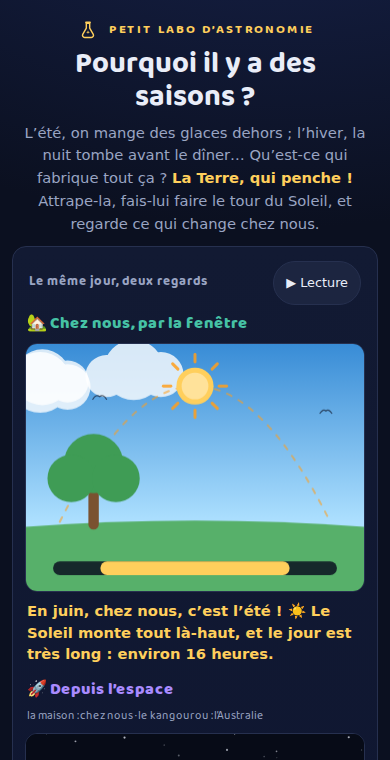
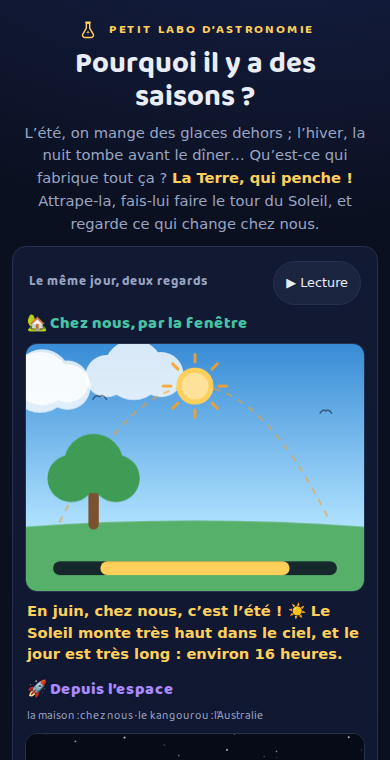
fix: quatre retouches de relecture (textes et premières fleurs)
- La légende « Terre-Soleil : toujours 150 millions de km » disparait
  de la vue de l'espace (elle n'apportait rien) ; la constance de la
  distance reste dans la note aux parents et les tests du modèle.
- En juin, le Soleil « monte très haut dans le ciel » (fini le
  « tout là-haut », partout : phrase du moment, scénario, bravo du jeu).
- En septembre, le jour et la nuit durent « pareil » — l'« encore »
  renvoyait à l'équinoxe de mars, trompeur en suivant l'année.
- À l'équinoxe de printemps, le dessin et le texte s'accordent : les
  premières fleurs s'ouvrent au bout des branches encore nues (rampe
  des fleurs avancée au jour 70, verrouillée par test), le scénario dit
  « les premières fleurs s'ouvrent » au lieu d'un arbre couvert.

Claude-Session: https://claude.ai/code/session_018g4iGsVy9rHqQjnC3SGe4X

Changed region(s): [[0.0615, 0.8171, 0.9231, 0.8776]]

diff --git a/js/model.js b/js/model.js
@@ -159,7 +159,7 @@ export function moisDuJour(jour) {
 /* ------------------------------------------------------------------ */
 
 /* Hauteur du Soleil à midi, en degrés au-dessus de l'horizon (chez nous).
- * Été : tout là-haut (~66°) ; hiver : tout bas (~20°). */
+ * Été : très haut (~66°) ; hiver : tout bas (~20°). */
 export function hauteurSoleilMidi(jour) {
   return HAUTEUR_MIDI_EQUINOXE + INCLINAISON_DEGRES * penchementNord(jour);
 }
@@ -213,7 +213,8 @@ function rampe(jour, debut, fin) {
  * - neige    : le manteau blanc de l'hiver (sol, flocons, bonhomme), 0 à 1.
  * Les rampes s'appuient sur les repères de l'année : les feuilles poussent
  * au printemps, roussissent puis tombent à l'automne, la neige s'installe
- * autour du solstice d'hiver, les fleurs éclosent au cœur du printemps. */
+ * autour du solstice d'hiver, les premières fleurs dès l'équinoxe de
+ * printemps. */
 export function jardinDuJour(jour) {
   var j = jourNormalise(jour);
   var t;
@@ -240,9 +241,11 @@ export function jardinDuJour(jour) {
     else rousseur = (j >= 300 || j < 20) ? 1 : 0;
   }
 
-  /* Les fleurs : elles éclosent en avril-mai, s'effacent au début de l'été. */
+  /* Les fleurs : les premières s'ouvrent dès l'équinoxe de printemps (le
+   * scénario en montre une ou deux), tout est fleuri en mai, et elles
+   * s'effacent au début de l'été. */
   var fleurs;
-  t = rampe(j, 85, 115);
+  t = rampe(j, 70, 115);
   if (t !== null) fleurs = t;
   else {
     t = rampe(j, 140, JOUR_SOLSTICE_ETE);
@@ -340,7 +343,7 @@ export function phraseDuMoment(jour) {
     return debut + 'Le Soleil grimpe plus haut chaque jour, et le jour grandit : déjà ' + heures + ' heures.';
   }
   if (s === 'ete') {
-    return debut + 'Le Soleil monte tout là-haut, et le jour est très long : environ ' + heures + ' heures.';
+    return debut + 'Le Soleil monte très haut dans le ciel, et le jour est très long : environ ' + heures + ' heures.';
   }
   return debut + 'Le Soleil redescend, et le jour raccourcit : plus que ' + heures + ' heures.';
 }
@@ -380,7 +383,7 @@ export var SCENARIOS = [
     label: 'Le printemps revient',
     sub: 'l’équinoxe de printemps',
     intro: 'Au mois de mars, le printemps revient…',
-    fenetre: 'L’arbre du jardin se couvre de fleurs ! Le jour et la nuit durent pareil : douze heures chacun. Et chaque jour qui passe, le Soleil grimpe un peu plus haut.',
+    fenetre: 'Sur l’arbre du jardin, les premières fleurs s’ouvrent ! Le jour et la nuit durent pareil : douze heures chacun. Et chaque jour qui passe, le Soleil grimpe un peu plus haut.',
     espace: 'Les deux moitiés de la Terre sont à égalité : ni chez nous, ni l’Australie ne penche vers le Soleil. Mais la Terre avance… Et bientôt, c’est notre moitié qui penchera vers lui !'
   },
   {
@@ -391,7 +394,7 @@ export var SCENARIOS = [
     label: 'L’été est là',
     sub: 'le solstice d’été',
     intro: 'Fin juin, l’été commence…',
-    fenetre: 'Le Soleil monte tout là-haut dans le ciel, et le soir, il fait encore jour très tard : seize heures de lumière ! L’arbre est vert, on mange dehors.',
+    fenetre: 'Le Soleil monte très haut dans le ciel, et le soir, il fait encore jour très tard : seize heures de lumière ! L’arbre est vert, on mange dehors.',
     espace: 'Regarde la Terre : notre moitié penche à fond vers le Soleil. C’est le jour le plus long de toute l’année — et en Australie, c’est le jour le plus court.'
   },
   {
@@ -402,7 +405,7 @@ export var SCENARIOS = [
     label: 'L’automne arrive',
     sub: 'l’équinoxe d’automne',
     intro: 'Fin septembre, l’automne arrive…',
-    fenetre: 'Les feuilles de l’arbre deviennent rousses et s’envolent. Le jour et la nuit durent encore pareil… Mais maintenant, le Soleil descend un peu plus chaque jour.',
+    fenetre: 'Les feuilles de l’arbre deviennent rousses et s’envolent. Le jour et la nuit durent pareil : douze heures chacun. Mais maintenant, le Soleil descend un peu plus chaque jour.',
     espace: 'Les deux moitiés de la Terre sont de nouveau à égalité : ni chez nous, ni l’Australie ne penche vers le Soleil. Elle continue son voyage… Et cette fois, c’est l’Australie qui va pencher vers lui.'
   },
   {
@@ -448,7 +451,7 @@ export var DEFIS = [
     cible: 'ete',
     hemisphere: 'nord',
     consigne: 'Fabrique l’été chez nous !',
-    bravo: 'Bravo ! C’est l’été : le Soleil monte tout là-haut et les jours n’en finissent plus !'
+    bravo: 'Bravo ! C’est l’été : le Soleil monte très haut et les jours n’en finissent plus !'
   },
   {
     id: 'feuilles',

diff --git a/js/vue-fenetre.js b/js/vue-fenetre.js
@@ -120,16 +120,32 @@ function dessinerArbre(ctx, x, sol, taille, jardin) {
         boules[b][2] * taille * gonfle, 0, TAU);
       ctx.fill();
     }
-    /* Les fleurs roses semées sur la couronne. */
-    if (jardin.fleurs > 0.05) {
-      ctx.fillStyle = '#ff9dbf';
+  }
+
+  /* Les fleurs roses : les toutes premières s'ouvrent au bout des branches
+   * encore nues (l'équinoxe de mars en montre une ou deux, comme le raconte
+   * le scénario), puis elles se sèment sur la couronne dès qu'elle est là. */
+  if (jardin.fleurs > 0.05) {
+    ctx.fillStyle = '#ff9dbf';
+    var f;
+    if (jardin.feuilles > 0.3) {
+      var gonfleFl = 0.35 + 0.65 * jardin.feuilles;
       var pointsFleurs = [[-0.35, -0.2], [0.05, -0.45], [0.38, -0.15], [-0.1, -0.05], [0.2, -0.38], [-0.28, -0.42]];
       var nb = Math.round(jardin.fleurs * pointsFleurs.length);
-      for (var f = 0; f < nb; f++) {
+      for (f = 0; f < nb; f++) {
         ctx.beginPath();
-        ctx.arc(x + pointsFleurs[f][0] * taille * gonfle,
-          sol - tronc + pointsFleurs[f][1] * taille * gonfle - taille * 0.1,
+        ctx.arc(x + pointsFleurs[f][0] * taille * gonfleFl,
+          sol - tronc + pointsFleurs[f][1] * taille * gonfleFl - taille * 0.1,
           taille * 0.055, 0, TAU);
+        ctx.fill();
+      }
+    } else {
+      var nbBranches = Math.max(1, Math.round(jardin.fleurs * branches.length));
+      for (f = 0; f < nbBranches && f < branches.length; f++) {
+        ctx.beginPath();
+        ctx.arc(x + branches[f][0] * taille * 0.55,
+          sol + branches[f][1] * taille * 0.55 - tronc * 0.4,
+          taille * 0.07, 0, TAU);
         ctx.fill();
       }
     }

diff --git a/js/vue-orbite.js b/js/vue-orbite.js
@@ -360,13 +360,6 @@ export function creerVueOrbite(canvas) {
       /* la tache de lumière : ramassée et vive quand le Soleil frappe en
        * face (été), effacée quand il rase (le faisceau diffus suffit) */
       dessinerLumiere(ctx, g.cx, g.cy, g.rSoleil, cibleX, cibleY, p.x, p.y, g.rTerre, aplomb, 'tache', force);
-      /* la distance ne change JAMAIS : la légende fixe le rappelle */
-      var tailleLegende = Math.max(10, Math.round(Math.min(g.w, g.h) * 0.032));
-      ctx.font = '600 ' + tailleLegende + 'px system-ui, sans-serif';
-      ctx.textAlign = 'center';
-      ctx.textBaseline = 'alphabetic';
-      ctx.fillStyle = 'rgba(255, 207, 92, 0.65)';
-      ctx.fillText('Terre–Soleil : toujours 150 millions de km', g.cx, g.h * 0.97);
       /* Les petites étiquettes (pas en mode compact). */
       if (!g.compact) {
         var taille = Math.round(Math.min(g.w, g.h) * 0.035);

diff --git a/index.html b/index.html
@@ -231,8 +231,7 @@
           de son <em>anneau de latitude</em> (le ruban dessiné sur le globe), qui reste à la
           même distance du Soleil toute l’année : ce qui change, c’est l’angle des rayons et la
           durée du jour, jamais la distance. C’est pourquoi maison et kangourou sont posés sur
-          leur anneau, face à nous — et la légende de la vue rappelle les 150 millions de
-          kilomètres, immuables.</li>
+          leur anneau, face à nous.</li>
         <li><strong>Le faisceau de lumière est un projecteur pédagogique.</strong> Il ne
           s’allume qu’autour des solstices, là où le dessin montre juste : la lumière frappe
           notre moitié bien en face l’été (tache ronde et vive), la rase de biais l’hiver

diff --git a/CLAUDE.md b/CLAUDE.md
@@ -83,8 +83,9 @@ Vérités verrouillées par `test/model.test.mjs` (à compléter, jamais supprim
   d'ellipse : le faisceau diffus raconte seul), jamais de saut. Sa cible
   glisse sur le bord éclairé du globe (rotation de versSoleil vers le haut
   de l'axe, 15° l'été → 75° l'hiver, adoucie aux alignements) — jamais
-  derrière. La légende fixe « Terre–Soleil : toujours
-  150 millions de km » ne bouge jamais.
+  derrière. (La légende de distance a été retirée — décision utilisateur :
+  elle n'apportait rien ; la constance de la distance reste racontée dans
+  la note aux parents et verrouillée par test.)
 - `angleAnnee(jour) = (jour − 171) / 365 · τ` (0 = solstice d'été, 21 juin) ;
   `positionTerre(jour) = (−cos a, −sin a)` (sens trigonométrique). Solstice
   d'été : Terre à gauche du Soleil ; hiver : à droite ; l'automne passe par le
@@ -148,8 +149,7 @@ Vérités verrouillées par `test/model.test.mjs` (à compléter, jamais supprim
   `attrapeTerre` garde sa zone généreuse pour les petits doigts.
 - L'étiquette « Terre » s'écrit sous le globe, décalée vers la droite (le
   bas-gauche porte le kangourou, le haut la maison). Mode compact (< 400 px
-  de canvas) : étiquettes Soleil/Terre masquées, légende de distance
-  conservée.
+  de canvas) : étiquettes Soleil/Terre masquées.
 - **La fenêtre évolue continûment** (retour utilisateur : la vue semblait
   statique) : `jardinDuJour(jour)` livre quatre paramètres continus
   (feuilles, rousseur, fleurs, neige) — aucun saut de décor d'un jour à

diff --git a/README.md b/README.md
@@ -24,8 +24,7 @@ L'idée centrale, celle que l'enfant doit retenir :
   maison et le kangourou sont assis sur leur ruban, au-devant — rien ne se
   « rapproche » du Soleil en été. Autour des solstices, un **faisceau de
   lumière** montre le mécanisme : il frappe notre moitié bien en face l'été
-  (tache généreuse et vive), la rase l'hiver (faisceau diffus, sans tache) —
-  et la légende fixe rappelle que la distance Terre–Soleil ne change jamais.
+  (tache généreuse et vive), la rase l'hiver (faisceau diffus, sans tache).
 - **La fenêtre de chez nous**, toujours synchronisée et vivante : le Soleil de
   midi qui monte haut l'été et reste bas l'hiver, et un jardin qui change
   chaque jour à petits pas (`jardinDuJour`, continu — verrouillé par test) —
